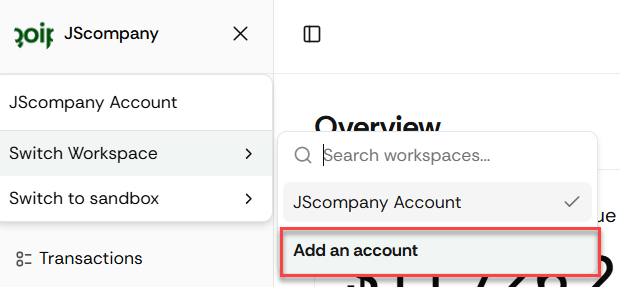
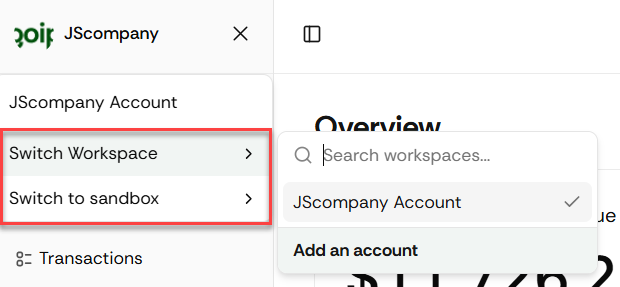
added sandbox account description

Changed region(s): [[0.0, 0.446, 0.9806, 1.0]]

diff --git a/createAccount.md b/createAccount.md
@@ -2,7 +2,7 @@
 
 ## Overview
 
-Chaching supports **multiple accounts per user**. Each account is fully isolated and has its own Stripe integration, customers, subscriptions, products, invoices, and billing data.
+Chaching supports multiple Live and Sandbox accounts. Each account is fully isolated and has its own Stripe integration, customers, subscriptions, products, invoices, and billing data.
 
 There is **no limit** to the number of accounts you can create.
 
@@ -19,16 +19,22 @@ You should create a new account if you need to:
 ## How to Add a New Account
 
 1. Go to **Your Account**
-2. Click **Add an Account**
-   {% img src="./images/AddNewAccount.png" alt="AddNewAccount.png" withLightbox=true width="" height="" /%}
-3. You are redirected to the onboarding flow
+2. Select one of the following options:
+{% img src="./images/AddNewAccount.png" alt="AddNewAccount.png" withLightbox=true width="" height="" /%}
+  Add a Live Account:
+   * Switch to workspace → Add an account
+   * Creates a new Live account
+   * Starts the standard onboarding flow
+  
+  Add a Sandbox Account:
+   * Switch to sandbox → Add new sandbox
+   * Creates a new Sandbox (Test Mode) account
+   * Starts the same onboarding flow
 
 The full step-by-step onboarding process (account details, Stripe connection, migration, bank setup) is described in [User Registration & Onboarding Guide](./onboarding.md).
 
 
 ## Sandbox vs Live Accounts
-
-During account creation, you can mark the account as **Sandbox**.
 
 * Sandbox accounts follow the same onboarding steps
 * Once completed, the Dashboard clearly shows **Test Mode**
